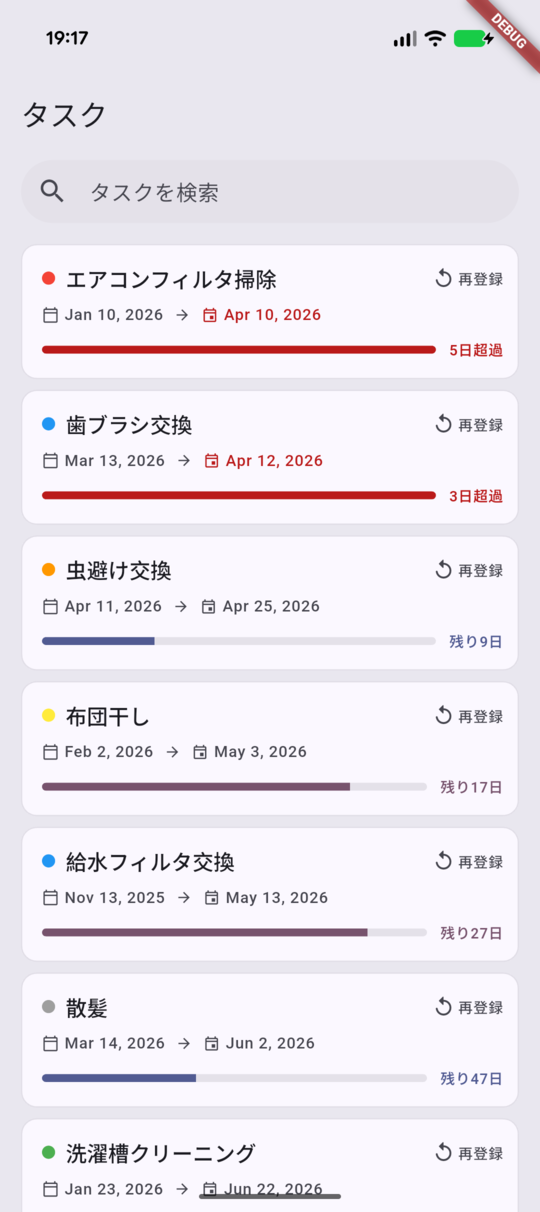
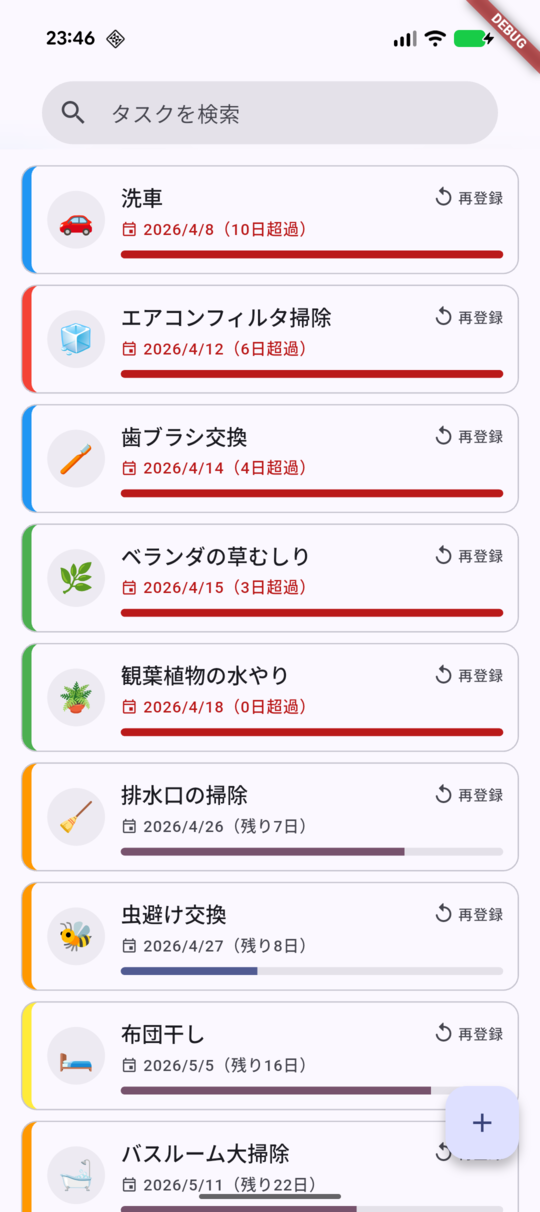
見栄え調整、スクショ修正

diff --git a/lib/ui/home/widgets/task_list_item.dart b/lib/ui/home/widgets/task_list_item.dart
@@ -31,10 +31,27 @@ class TaskListItem extends StatelessWidget {
           child: Row(
             crossAxisAlignment: CrossAxisAlignment.stretch,
             children: [
-              Container(width: 6, color: task.color.color),
+              Stack(
+                children: [
+                  Container(width: 16, color: task.color.color),
+                  Padding(
+                    padding: const EdgeInsets.only(left: 8),
+                    child: Container(
+                      width: 8,
+                      decoration: BoxDecoration(
+                        color: colorScheme.surface,
+                        borderRadius: const BorderRadius.only(
+                          topLeft: Radius.circular(12),
+                          bottomLeft: Radius.circular(12),
+                        ),
+                      ),
+                    ),
+                  ),
+                ],
+              ),
               Expanded(
                 child: Padding(
-                  padding: const EdgeInsets.fromLTRB(12, 12, 12, 12),
+                  padding: const EdgeInsets.fromLTRB(4, 12, 12, 12),
                   child: Row(
                     crossAxisAlignment: CrossAxisAlignment.center,
                     children: [
@@ -141,6 +158,7 @@ class TaskListItem extends StatelessWidget {
     );
   }
 }
+
 
 class _EmojiCircle extends StatelessWidget {
   const _EmojiCircle({required this.icon, required this.colorScheme});
